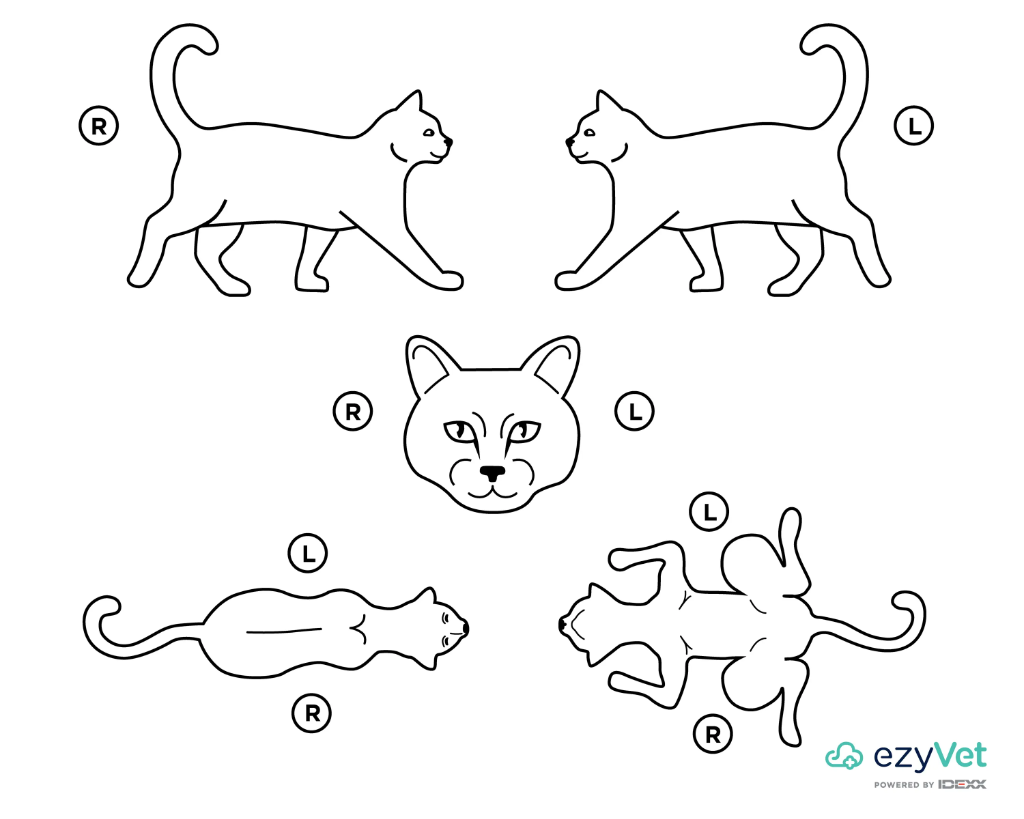
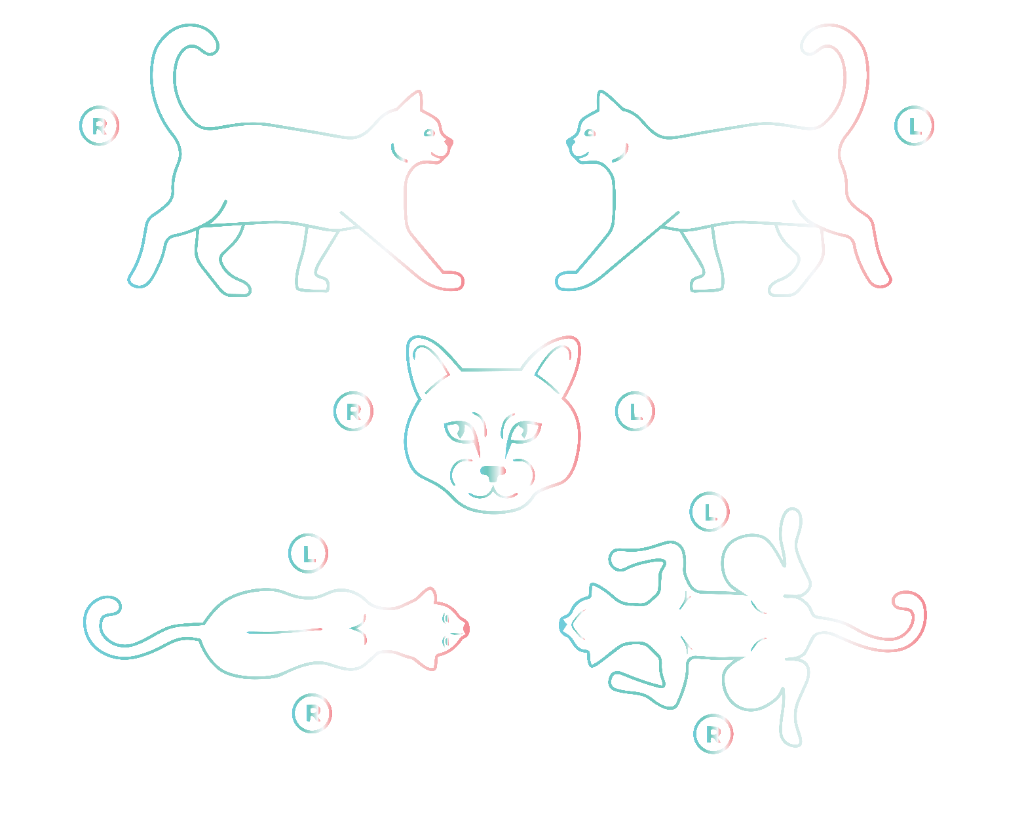
style: remove white background for transparent Body Map custom images

diff --git a/src/components/modules/BodyMap.tsx b/src/components/modules/BodyMap.tsx
@@ -136,8 +136,7 @@ export default function BodyMap({ initialData, readOnly = false, species = 'Cach
                     display: 'flex',
                     alignItems: 'center',
                     justifyContent: 'center',
-                    padding: '1rem',
-                    background: 'white' // To match the white background of the provided images
+                    padding: '1rem'
                 }}>
                     <img
                         src={(species.toLowerCase().includes('gato') || species.toLowerCase().includes('felin')) ? '/body-map-cat.png' : '/body-map-dog.png'}
